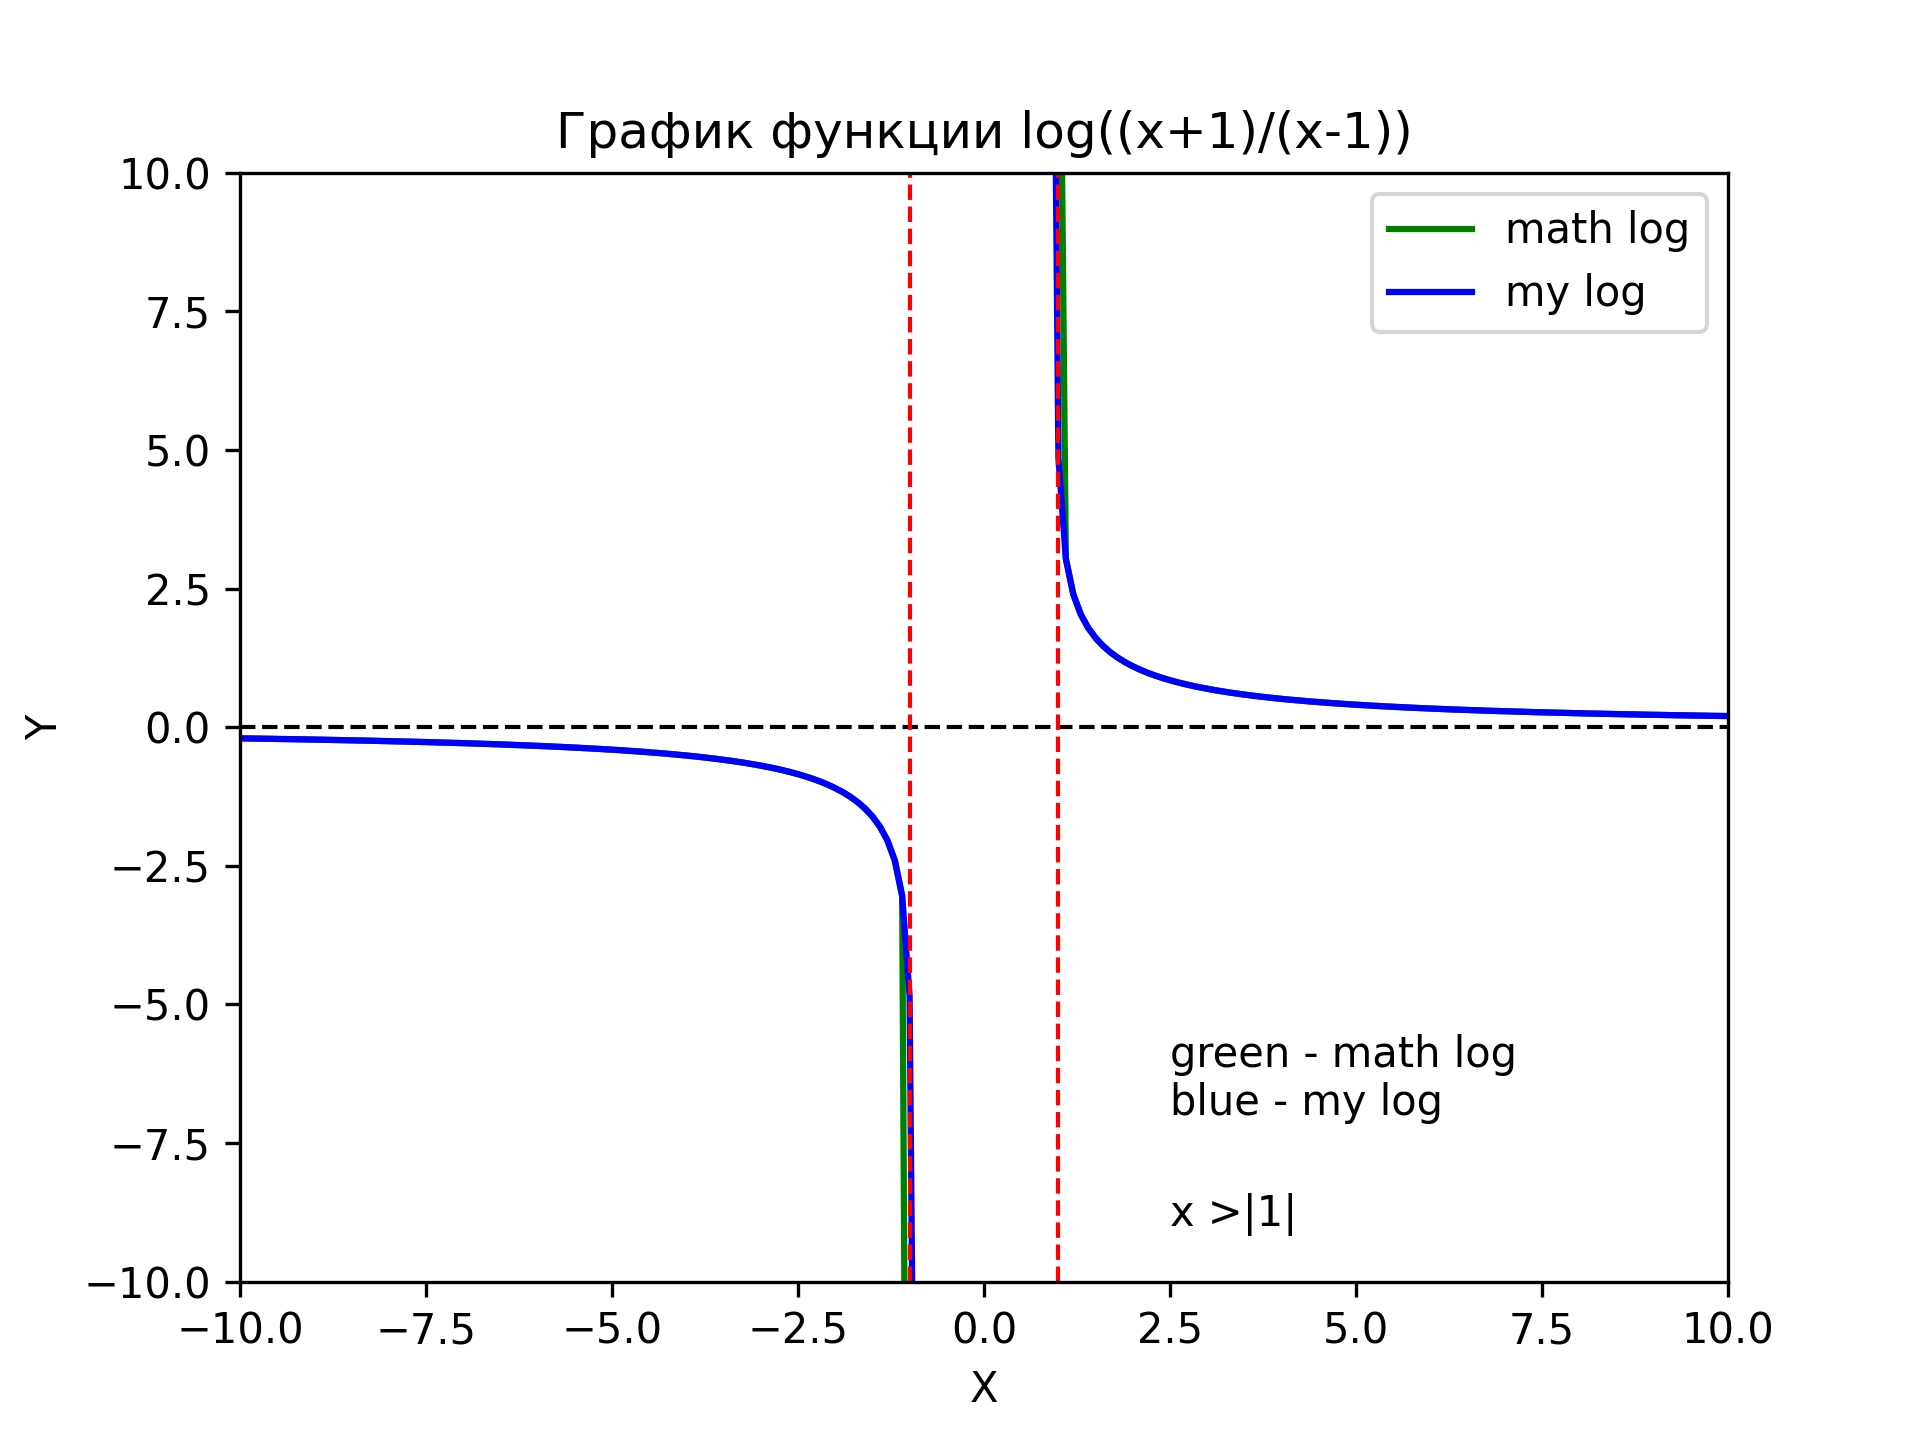
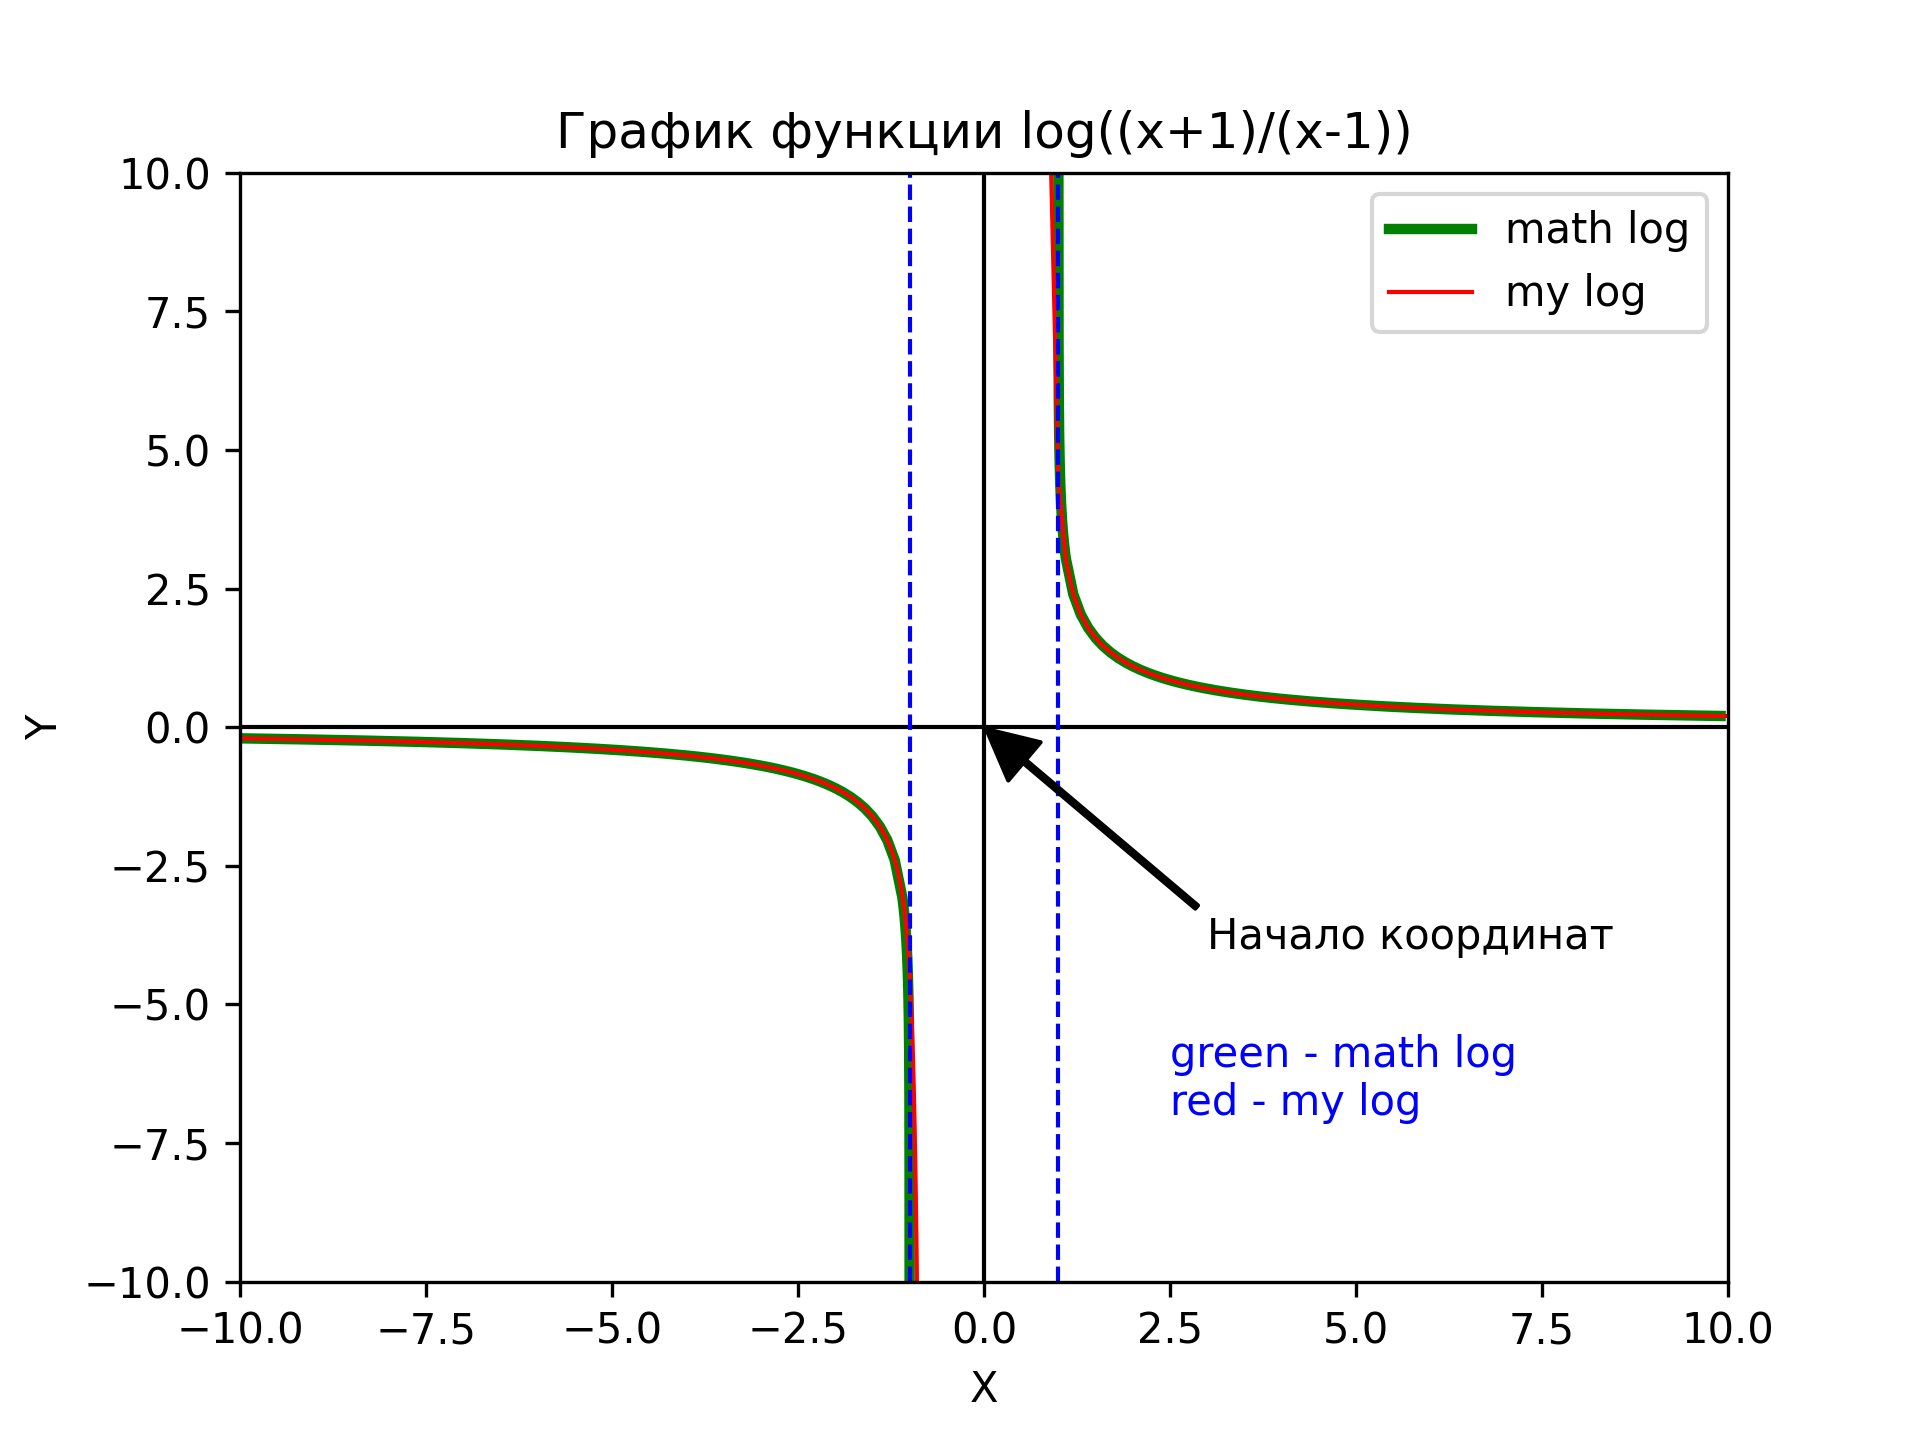
lab4 final

diff --git a/IGI/LR4/task3/SeriesDrawer.py b/IGI/LR4/task3/SeriesDrawer.py
@@ -11,23 +11,39 @@ class Drawer():
         '''Function for drawing graph
 
         '''
-        x = np.concatenate((np.arange(-100, 1, 0.1), np.arange(1.0000001, 100, 0.1)))
-        f1 = np.log((x+1)/(x-1))
-        plt.plot(x, f1,label="math log",color="green")
+        #x = np.arange(-100, 100, 0.1)
+        #x_m = np.concatenate((np.arange(-100.0, 0, 0.1), np.arange(0, 100.0, 0.1)))
+        x1 = np.concatenate((np.arange(-10.0, -1.1, 0.1),np.arange(-1.1, -1.0001, 0.0001)))
+        x2 = np.concatenate((np.arange(1.0001, 1.1, 0.0001), np.arange(1.1, 10.0, 0.1)))
+        x = np.concatenate((np.arange(-100,0, 0.0001), np.arange(0, 100, 0.1)))
+        #x1 = np.linspace(-10, -1, 100, endpoint=False)
+        #x2 = np.linspace(10, 1, 100, endpoint=False)
+        #x = np.linspace(-10, 10, 100, endpoint=False)
+
+        f1 = np.log((x1+1)/(x1-1))
+        f2 = np.log((x2+1)/(x2-1))
+        plt.plot(x1, f1,label="math log",color="green",linewidth=2.5)
+        plt.plot(x2, f2,color="green",linewidth=2.5)
 
         con = self.power_series.calculate()
-        f2 =  2*sum(1/((2*n+1) * np.power(x,2*n+1)) for n in range(len(self.power_series.serie)))
-        plt.plot(x, f2,label="my log",color="blue")
-        plt.axhline(y=0, color='black', linestyle='--', linewidth=1)
-        plt.axvline(x=1, color='red', linestyle="--", linewidth=1)
-        plt.axvline(x=-1, color='red', linestyle="--", linewidth=1)
+        f3 =  2*sum(1/((2*n+1) * np.power(x,2*n+1)) for n in range(con[1])) #len serie
+
+        #plt.plot(x, f1,label="math log",color="green")
+        plt.plot(x, f3,label="my log",color="red",linewidth=1)
+        plt.axhline(y=0, color='black', linestyle='-', linewidth=1)
+        plt.axvline(x=1, color='blue', linestyle="--", linewidth=1)
+        plt.axvline(x=-1, color='blue', linestyle="--", linewidth=1)
+        plt.axvline(x=0, color='black', linestyle="-", linewidth=1)
 
         plt.legend()
         plt.xlabel('X')
         plt.ylabel('Y')
-        plt.annotate('x >|1|', (2.5, -9))
+        #plt.arrow(0, 0, 3, 4, head_width=0.2, head_length=0.3, fc='blue', ec='blue')
+        plt.annotate('Начало координат', xy=(0, 0), xytext=(3, -4),
+            arrowprops=dict(facecolor='black', shrink=0.01,width=1))
+       # plt.annotate('x >|1|', (2.5, -9))
         plt.title('График функции log((x+1)/(x-1))')
-        plt.text(2.5,-7,"green - math log\nblue - my log")
+        plt.text(2.5,-7,"green - math log\nred - my log",color='blue')
         plt.xlim(-10, 10)
         plt.ylim(-10, 10)
         plt.savefig(r'C:\Users\Alexander\Desktop\bsuir\IGI\253505_Stanishewski_21\IGI\LR4\task3\plots.png', dpi=300)

diff --git a/IGI/LR4/task2/task2f.py b/IGI/LR4/task2/task2f.py
@@ -30,11 +30,12 @@ class StandartAnalyzer():
         return value:
         output -- types of sentences (str)
         '''
-        pattern_narrative = r'[^.!?]*[.]+'
+       # pattern_narrative = r'[^.!?]*[.]+'
+        pattern_narrative2 = r'([^.!?]*[.]{1,3})'
         pattern_interrogative = r'[^.!?]*[?]+'
         pattern_imperative = r'[^.!?]*[!]+'
 
-        sentences_narrative = re.findall(pattern_narrative, text)
+        sentences_narrative = re.findall(pattern_narrative2, text)
         sentences_quest = re.findall(pattern_interrogative, text)
         sentences_imperative = re.findall(pattern_imperative, text)
         output = ""
@@ -44,7 +45,7 @@ class StandartAnalyzer():
         output += "Количество вопросительных предложений: "
         output += str(len(sentences_quest))
         output += "\n"
-        output += "Количество вопросительных предложений: "
+        output += "Количество восклицательных предложений: "
         output += str(len(sentences_imperative))
         output += "\n"
         return output
@@ -205,15 +206,19 @@ class TextAnalyzer(StandartAnalyzer):
         return value:
         output -- letters (str)
         '''
-        punct_pattern = r'[^\w\s]'
-        text_without_punc = re.sub(punct_pattern, '', text)
-        text_without_punc = text_without_punc.replace(" ", "")
-
-        letter_counts = Counter(text_without_punc).most_common()
+        letters = re.findall(r'[a-zA-Z]', text)
+        letters = [letter.lower() for letter in letters]
+        letter_counts = {}
+        for letter in letters:
+            if letter in letter_counts:
+                letter_counts[letter] += 1
+            else:
+                letter_counts[letter] = 1
         output = "Сколько раз повторяется каждая буква: "
         output += str(letter_counts)
         output += "\n"
         return output
+
 
     @classmethod
     def alpha_sort(cls,text:str) -> str:

diff --git a/IGI/LR4/task4/task4f.py b/IGI/LR4/task4/task4f.py
@@ -12,11 +12,7 @@ class GeometricFigure(ABC):
         pass
 
 
-class ColorMixin:
-    def reinit(self,color):
-        self.color = color
-
-class Color(ColorMixin):
+class Color():
     def __init__(self,color) -> None:
         self.hidden_color = color
 
@@ -30,8 +26,11 @@ class Color(ColorMixin):
 
     color = property(get_color,set_color)
 
+class MessageMixin:
+    def message(self,message):
+        print(f"Фигура: {message}")
 
-class Parallelogram(GeometricFigure):
+class Parallelogram(GeometricFigure,MessageMixin):
     name = "Паралеллограмм"
     def __init__(self, diagonal1:float, diagonal2:float, angle:float, col:str):
 
@@ -40,6 +39,9 @@ class Parallelogram(GeometricFigure):
         self.diagonal2 = diagonal2
         self.angle = angle
         self.color = Color(col)
+
+    def do_something(self):
+        self.message("Параллелограмм")
 
     def __eq__ (self,other):
             return self.calculate_area() == other.calculate_area()

diff --git a/IGI/LR4/task2/fileworker.py b/IGI/LR4/task2/fileworker.py
@@ -13,9 +13,12 @@ class IFileWorker(ABC):
         text -- text from file
 
         '''
-        with open(path,"r",encoding="utf-8") as file:
-            text = file.read()
-        return text
+        try:
+            with open(path,"r",encoding="utf-8") as file:
+                text = file.read()
+            return text
+        except Exception:
+            print("Ошибка открытия файла")
 
     def write_to_file(self, path:str, text_output:str):
         '''Function for writing in file
@@ -25,8 +28,11 @@ class IFileWorker(ABC):
         text_output -- your text
 
         '''
-        with open(path, "w",encoding="utf-8") as file:
-            file.write(text_output)
+        try:
+            with open(path, "w",encoding="utf-8") as file:
+                file.write(text_output)
+        except Exception:
+            print("Ошибка открытия файла")
 
     @abstractmethod
     def archive_file():

diff --git a/IGI/LR4/task1/task1test.py b/IGI/LR4/task1/task1test.py
@@ -18,6 +18,8 @@ def main():
                 candidate_name = input("Введите имя кандидата: ")
                 try:
                     votes = int(input("Введите количество голосов за: "))
+                    if votes <=0:
+                        raise ValueError
                     elec.add_candidate(candidate_name,votes)
                     break
                 except ValueError:

diff --git a/IGI/LR4/task2/task2test.py b/IGI/LR4/task2/task2test.py
@@ -8,8 +8,13 @@ def main():
     filenamew = r".\task2\file_from.txt"
 
     File_work = ZipWorker()
-    
-    text = File_work.read_from_file(filenamer)
+
+    while True:
+        try:
+            text = File_work.read_from_file(filenamer)
+            break
+        except FileExistsError:
+            print("Не удалось открыть файл")
 
     text_output = ""
     text_output += TextAnalyzer.find_sentences(text)
